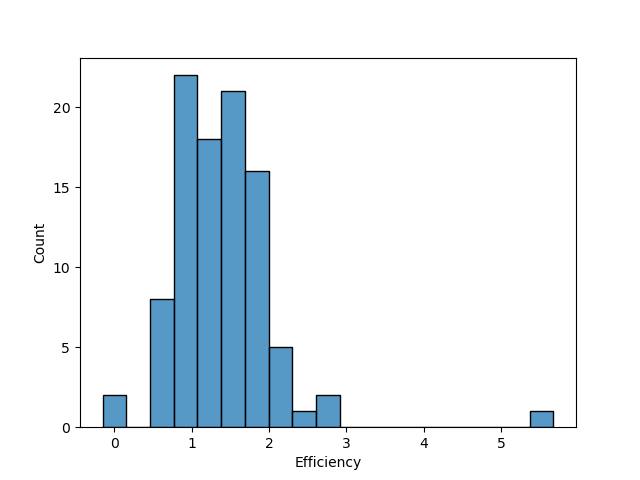
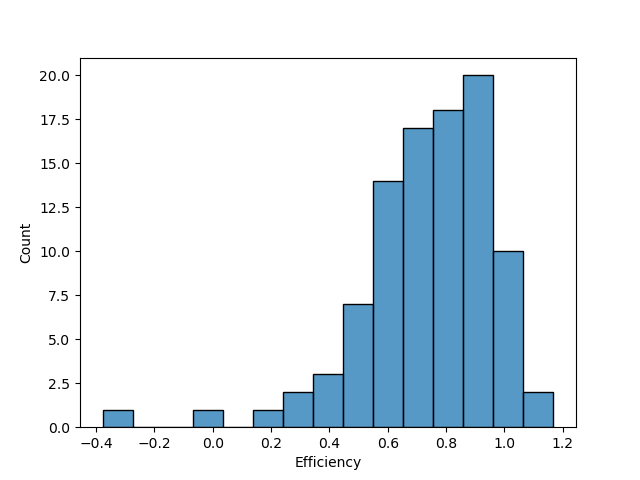
update

diff --git a/preprocessing/room_check_analysis.py b/preprocessing/room_check_analysis.py
@@ -2,9 +2,17 @@ import math
 
 import numpy as np
 import pandas as pd
+import seaborn as sns
 from matplotlib import pyplot as plt
 
 from utils import replace_dict
+
+
+def calculate_vapor_density(temp: float):
+    return 5.018 + 0.32321 * temp + 8.1847 * pow(10, -3) * pow(temp, 2) + 3.1243 * pow(10, -4) * pow(temp, 3)
+
+
+room_volume = 30  # m^3
 
 room_data = pd.read_csv('../data/room_check_original.csv', index_col=None)
 pd.set_option("display.max_columns", None)
@@ -27,52 +35,87 @@ for i in range(len(room_data)):
         if room_data.loc[i, 'room'] in replace_dict[key]:
             room_data.loc[i, 'replaced_year'] = key
 
+    # calculate stabilize time
+    time_list = room_data.loc[i, 'Time before stabilization'].split('min')
+    room_data.loc[i, 'Time_stabilize_in_sec'] = int(time_list[0]) * 60 + int(time_list[1].replace('s', '')) if \
+        time_list[1] != '' else int(time_list[0]) * 60
+
+    # handle characters
     room_data.loc[i, 'Indoor_RH_init'] = float(room_data.loc[i, 'Indoor_RH_init'].replace('%', ''))
     room_data.loc[i, 'Indoor_RH_after'] = float(room_data.loc[i, 'Indoor_RH_after'].replace('%', ''))
     room_data.loc[i, 'Env RH'] = float(room_data.loc[i, 'Env RH'].replace('%', ''))
     room_data.loc[i, 'Rated Power'] = float(room_data.loc[i, 'Rated Power'].replace('W', ''))
-    if len(room_data.loc[i, 'Time before stablization'].split('min')) == 1:
-
-        room_data.loc[i, 'Time before stablization'] = \
-            int(room_data.loc[i, 'Time before stablization'].replace('s', '').split('min')[0]) * 60 + \
-            int(room_data.loc[i, 'Time before stablization'].replace('s', '').split('min')[1])
+    if len(room_data.loc[i, 'Time before stabilization'].split('min')) == 1:
+        room_data.loc[i, 'Time before stabilization'] = \
+            int(room_data.loc[i, 'Time before stabilization'].replace('s', '').split('min')[0]) * 60 + \
+            int(room_data.loc[i, 'Time before stabilization'].replace('s', '').split('min')[1])
     else:
-        room_data.loc[
-            i, 'Time before stablization'] = int(
-            room_data.loc[i, 'Time before stablization'].replace('s', '').split('min')[0]) * 60
-
+        room_data.loc[i, 'Time before stabilization'] = int(
+            room_data.loc[i, 'Time before stabilization'].replace('s', '').split('min')[0]) * 60
     room_data.loc[i, 'Velocity'] = room_data.loc[i, 'Velocity'].replace('m/s', '')
 
-    room_data.loc[i, 'Indoor_T_diff'] = -round(room_data.loc[i, 'Indoor_after'] - room_data.loc[i, 'Env T'], 5)
-    room_data.loc[i, 'Indoor_RH_diff'] = -round(room_data.loc[i, 'Indoor_RH_after'] -
-                                                room_data.loc[i, 'Indoor_RH_init'], 5)
+    # add some new columns
+    room_data.loc[i, 'Indoor_T_diff'] = -round(room_data.loc[i, 'Indoor_after'] - room_data.loc[i, 'Indoor_init'], 5)
+    # room_data.loc[i, 'Indoor_RH_diff'] = -round(room_data.loc[i, 'Indoor_RH_after'] -
+    #                                             room_data.loc[i, 'Indoor_RH_init'], 5)
+    # room_data.loc[i, 'T_air_diff'] = round(room_data.loc[i, 'Tair_init'] -
+    #                                        room_data.loc[i, 'Stabilized Tair'], 5)
+    room_data.loc[i, 'init_saturate_vd'] = calculate_vapor_density(room_data.loc[i, 'Indoor_init'])
+    room_data.loc[i, 'after_saturate_vd'] = calculate_vapor_density(room_data.loc[i, 'Indoor_after'])
+    room_data.loc[i, 'init_actual_vd'] = room_data.loc[i, 'Indoor_RH_init'] * 0.01 * room_data.loc[
+        i, 'init_saturate_vd']
+    room_data.loc[i, 'after_actual_vd'] = room_data.loc[i, 'Indoor_RH_after'] * 0.01 * room_data.loc[
+        i, 'after_saturate_vd']
+
+# unite data type
 room_data['Indoor_RH_init'] = room_data['Indoor_RH_init'].astype('float64')
 room_data['Indoor_RH_after'] = room_data['Indoor_RH_after'].astype('float64')
 room_data['Env RH'] = room_data['Env RH'].astype('float64')
-room_data['Stablized Tair'] = room_data['Stablized Tair'].astype('float64')
-room_data['Time before stablization'] = room_data['Time before stablization'].astype('int64')
+room_data['Stabilized Tair'] = room_data['Stabilized Tair'].astype('float64')
+room_data['Time before stabilization'] = room_data['Time before stabilization'].astype('int64')
 room_data['Velocity'] = room_data['Velocity'].astype('float64')
 room_data['replaced_year'] = room_data['replaced_year'].astype('int64')
-room_data['Efficiency'] = (1.012 * room_data['Velocity'] * room_data['Indoor_T_diff'] * 1225 + 2260 * room_data[
-    'Velocity'] * (room_data['Indoor_RH_diff'] * 0.01) * 40) * 0.02 / room_data['Rated Power']
+
+# calculate latent heat (water)
+room_data['init_vapor_mass'] = room_data['init_actual_vd'] * room_volume
+room_data['after_vapor_mass'] = room_data['after_actual_vd'] * room_volume
+room_data['vapor_mass_diff'] = room_data['init_vapor_mass'] - room_data['after_vapor_mass']  # gram
+room_data['vapor_latent_heat'] = room_data['vapor_mass_diff'] * 2260  # joule
+
+# calculate specific heat (air)
+room_data['air_specific_heat'] = 1.012 * 1225 * room_volume * room_data['Indoor_T_diff']
+
+# calculate efficiency
+room_data['Efficiency'] = (room_data['vapor_latent_heat'] + room_data['air_specific_heat']) / (
+        room_data['Rated Power'] * room_data['Time_stabilize_in_sec'])
+
+room_data[room_data.Occupancy == 'Y'].to_csv('../occupancy.csv', index=False)
+room_data[room_data.Efficiency > 1].to_csv('../Larger_than_1.csv', index=False)
+# room_data['Efficiency'] = (1.012 * (room_data['Velocity'] * 1225) * room_data['T_air_diff'] + 2260 * room_data[
+#     'Velocity'] * (room_data['Indoor_RH_diff'] * 0.01) * 40) * 0.02 / room_data['Rated Power']
 # 40是绝对湿度下的含水量，1.012是空气比热容，1225是空气密度，2260是水的latent heat，0.02是出风口面积0.02平方米
 
-print(room_data['Efficiency'])
+room_data.to_csv('../data/room_check_processed.csv', index=False)
+
+# 1.012 * (room_data['Velocity'] * 1225) * room_data['Indoor_T_diff'] * 1
+# s * S
+# c
+# 速度 * 密度
+# 温差ΔT
+#
+# 2260 * room_data['Velocity'] * (room_data['Indoor_RH_diff'] * 0.01) * 40)
+
+# make the plot
 room_data['Efficiency'] = room_data['Efficiency'].astype('float64')
 Efficiency = list(room_data['Efficiency'])
-print(room_data.describe())
-print(Efficiency)
 room_data.sort_values(by=['Efficiency'], inplace=True, ascending=False)
 Efficiency = sorted(Efficiency)
-print(Efficiency)
-import seaborn as sns
 
 sns.histplot(data=room_data, x="Efficiency")
 plt.savefig('./efficiency_distribution.png')
 
-efficiency_dict = {
-    room_data.loc[i, 'room']: room_data.loc[i, 'Efficiency'] for i in range(len(room_data))
-}
+efficiency_dict = {room_data.loc[i, 'room']: room_data.loc[i, 'Efficiency']
+                   for i in range(len(room_data))}
 np.save('../data/efficiency_dict.npy', efficiency_dict)
 
 # high_class = [int(i.split('\\')[-1].split('.')[0]) for i in

diff --git a/efficiency_regression/model.py b/efficiency_regression/model.py
@@ -1,10 +1,11 @@
 import torch
 from torch import nn
+from torch.autograd import Variable
 from torch.nn import Sequential
 
 
 class simple_LSTM_encoder(nn.Module):
-    def __init__(self, feature_num=11, hidden_size=32, num_layers=1, bias=True, batch_first=True, bidirectional=True,
+    def __init__(self, feature_num=11, hidden_size=32, num_layers=4, bias=True, batch_first=True, bidirectional=True,
                  dropout=0.4):
         super(simple_LSTM_encoder, self).__init__()
         self.feature_num = feature_num
@@ -31,8 +32,91 @@ class simple_LSTM_encoder(nn.Module):
         return 3 * self.hidden_size if not self.bidirectional else 4 * self.hidden_size
 
 
-class attention_LSTM_encoder(nn.Module):
-    pass
+class bilstm_attn(torch.nn.Module):
+    def __init__(self, batch_size, output_size, hidden_size, vocab_size, embed_dim, bidirectional, dropout, use_cuda,
+                 attention_size, sequence_length):
+        super(bilstm_attn, self).__init__()
+
+        self.batch_size = batch_size
+        self.output_size = output_size
+        self.hidden_size = hidden_size
+        self.vocab_size = vocab_size
+        self.embed_dim = embed_dim
+        self.bidirectional = bidirectional
+        self.dropout = dropout
+        self.use_cuda = use_cuda
+        self.sequence_length = sequence_length
+        self.lookup_table = nn.Embedding(self.vocab_size, self.embed_dim, padding_idx=const.PAD)
+        self.lookup_table.weight.data.uniform_(-1., 1.)
+
+        self.layer_size = 1
+        self.lstm = nn.LSTM(self.embed_dim,
+                            self.hidden_size,
+                            self.layer_size,
+                            dropout=self.dropout,
+                            bidirectional=self.bidirectional)
+
+        if self.bidirectional:
+            self.layer_size = self.layer_size * 2
+        else:
+            self.layer_size = self.layer_size
+
+        self.attention_size = attention_size
+        if self.use_cuda:
+            self.w_omega = Variable(torch.zeros(self.hidden_size * self.layer_size, self.attention_size).cuda())
+            self.u_omega = Variable(torch.zeros(self.attention_size).cuda())
+        else:
+            self.w_omega = Variable(torch.zeros(self.hidden_size * self.layer_size, self.attention_size))
+            self.u_omega = Variable(torch.zeros(self.attention_size))
+
+        self.label = nn.Linear(hidden_size * self.layer_size, output_size)
+
+    # self.attn_fc_layer = nn.Linear()
+
+    def attention_net(self, lstm_output):
+        # print(lstm_output.size()) = (squence_length, batch_size, hidden_size*layer_size)
+
+        output_reshape = torch.Tensor.reshape(lstm_output, [-1, self.hidden_size * self.layer_size])
+        # print(output_reshape.size()) = (squence_length * batch_size, hidden_size*layer_size)
+
+        attn_tanh = torch.tanh(torch.mm(output_reshape, self.w_omega))
+        # print(attn_tanh.size()) = (squence_length * batch_size, attention_size)
+
+        attn_hidden_layer = torch.mm(attn_tanh, torch.Tensor.reshape(self.u_omega, [-1, 1]))
+        # print(attn_hidden_layer.size()) = (squence_length * batch_size, 1)
+
+        exps = torch.Tensor.reshape(torch.exp(attn_hidden_layer), [-1, self.sequence_length])
+        # print(exps.size()) = (batch_size, squence_length)
+
+        alphas = exps / torch.Tensor.reshape(torch.sum(exps, 1), [-1, 1])
+        # print(alphas.size()) = (batch_size, squence_length)
+
+        alphas_reshape = torch.Tensor.reshape(alphas, [-1, self.sequence_length, 1])
+        # print(alphas_reshape.size()) = (batch_size, squence_length, 1)
+
+        state = lstm_output.permute(1, 0, 2)
+        # print(state.size()) = (batch_size, squence_length, hidden_size*layer_size)
+
+        attn_output = torch.sum(state * alphas_reshape, 1)
+        # print(attn_output.size()) = (batch_size, hidden_size*layer_size)
+
+        return attn_output
+
+    def forward(self, input_sentences, batch_size=None):
+        input = self.lookup_table(input_sentences)
+        input = input.permute(1, 0, 2)
+
+        if self.use_cuda:
+            h_0 = Variable(torch.zeros(self.layer_size, self.batch_size, self.hidden_size).cuda())
+            c_0 = Variable(torch.zeros(self.layer_size, self.batch_size, self.hidden_size).cuda())
+        else:
+            h_0 = Variable(torch.zeros(self.layer_size, self.batch_size, self.hidden_size))
+            c_0 = Variable(torch.zeros(self.layer_size, self.batch_size, self.hidden_size))
+
+        lstm_output, (final_hidden_state, final_cell_state) = self.lstm(input, (h_0, c_0))
+        attn_output = self.attention_net(lstm_output)
+        logits = self.label(attn_output)
+        return logits
 
 
 class NN_regressor(nn.Module):

diff --git a/preprocessing/data_compilation.py b/preprocessing/data_compilation.py
@@ -19,12 +19,12 @@ def get_average_data(date: str, hour: str, half=False):
     result = []
     if len(date.split('-')) == 3:
         y, m, d = date.split('-')[0], date.split('-')[1], date.split('-')[2]
-        m = '0' + m if len(m) == 1 else m
-        d = '0' + d if len(d) == 1 else d
+        m = f'0{m}' if len(m) == 1 else m
+        d = f'0{d}' if len(d) == 1 else d
     elif len(date.split('/')) == 3:
         y, m, d = date.split('/')[0], date.split('/')[1], date.split('/')[2]
-        m = '0' + m if len(m) == 1 else m
-        d = '0' + d if len(d) == 1 else d
+        m = f'0{m}' if len(m) == 1 else m
+        d = f'0{d}' if len(d) == 1 else d
     else:
         raise Exception("Error at {}".format(date))
     date_processed = '-'.join([y, m, d])
